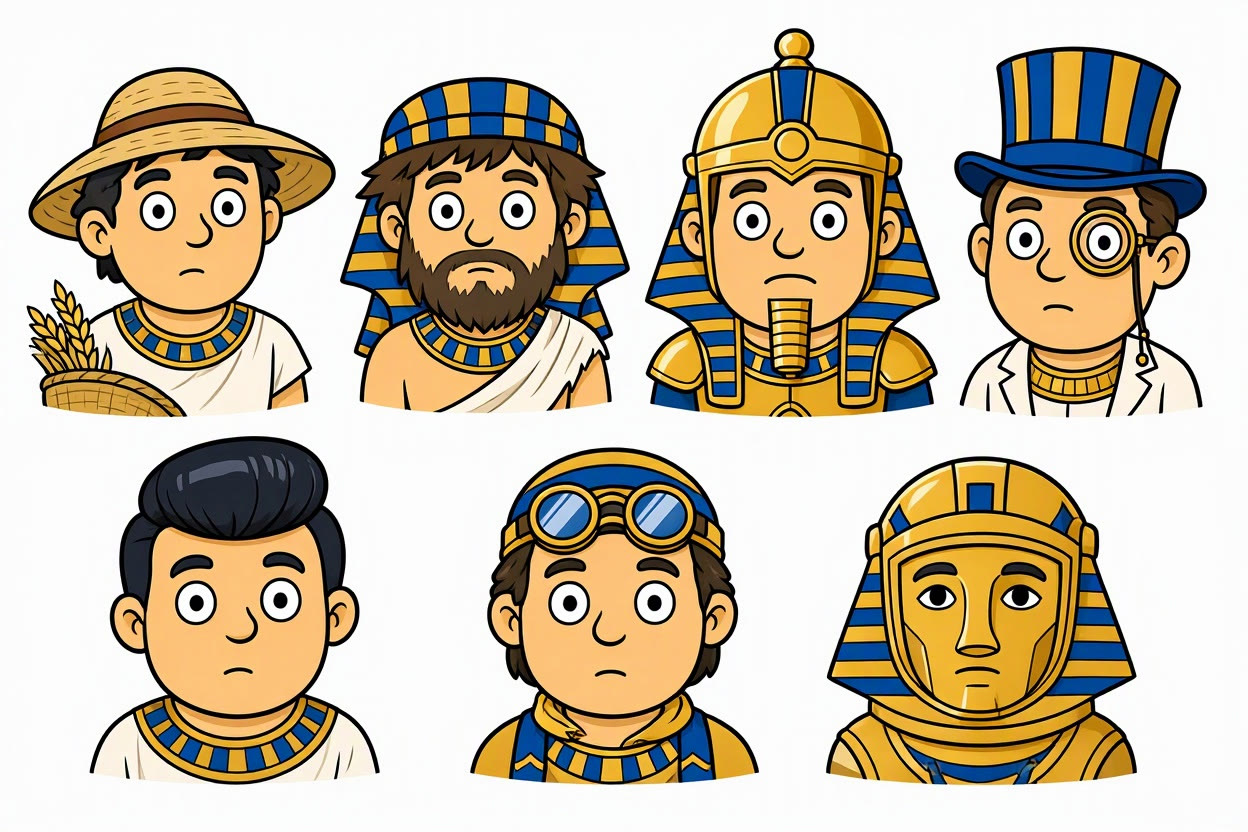
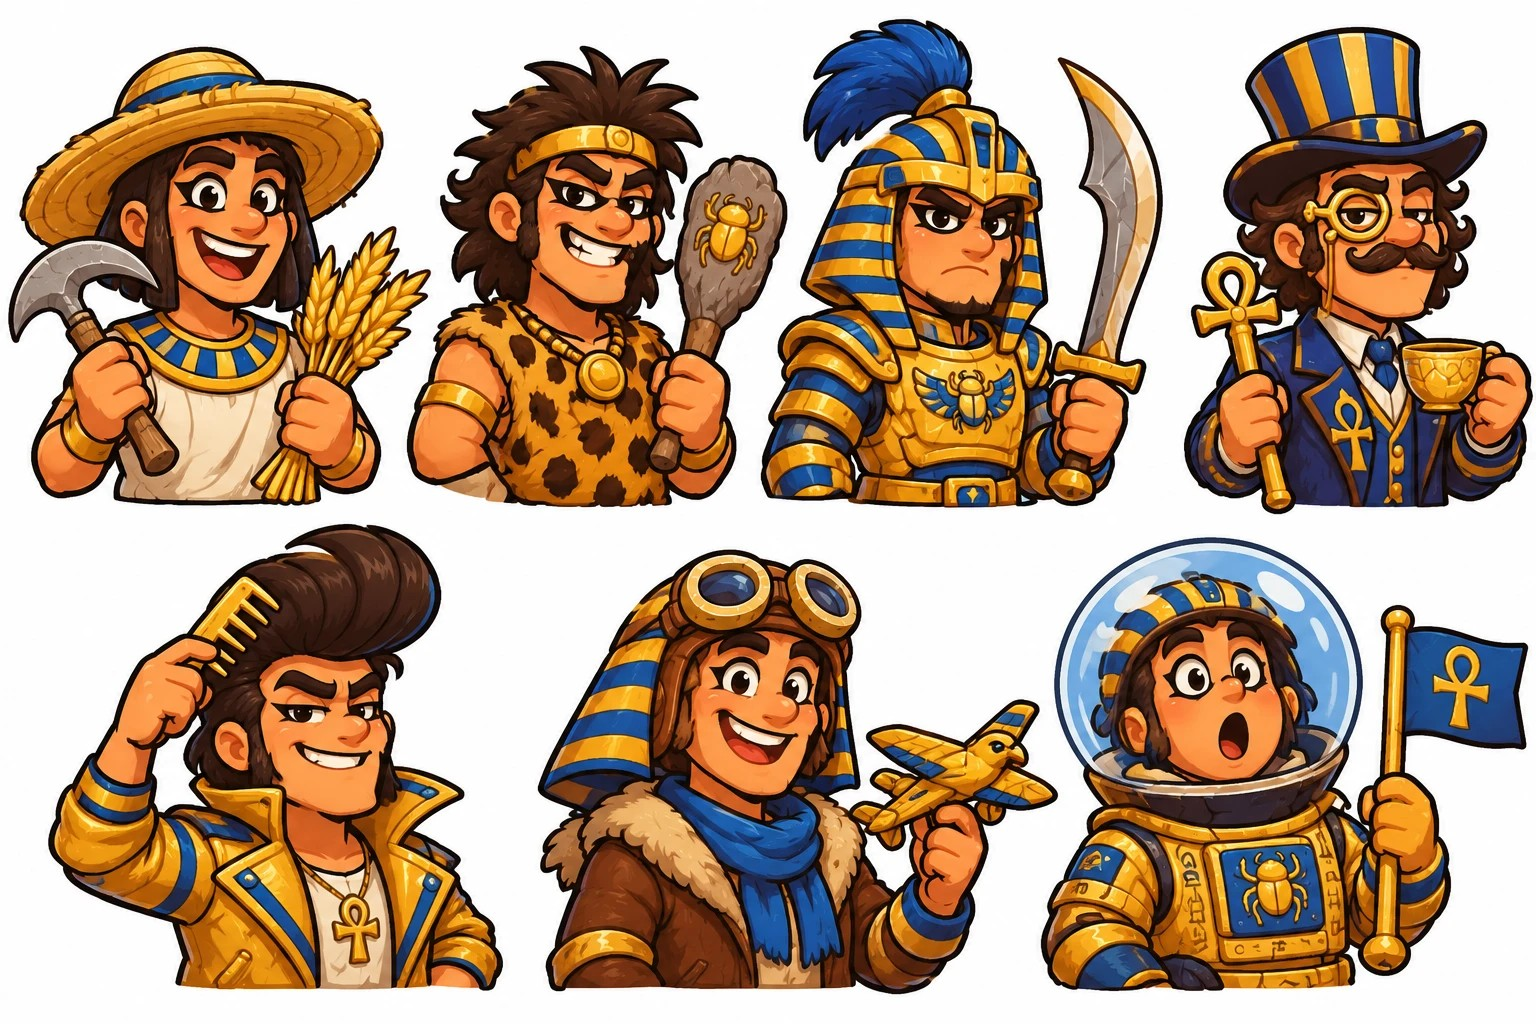
v0.1.209: new customer art for Stone, Egyptian, Medieval, Victorian, 1950s and Old-School sheets
Adds art-prompts.md with the prompts used. Future sheet is unchanged.

diff --git a/src/config.js b/src/config.js
@@ -3,7 +3,7 @@
 // Tiers are 0-based everywhere: 0 Wheel, 1 Cart, 2 Carriage, 3 Bicycle, 4 Car, 5 Plane, 6 Rocket.
 
 window.ERA_POP_CONFIG = {
-  version: '0.1.208',
+  version: '0.1.209',
 
   // ---- Capsule (world units; the capsule is scaled to fit the screen) ----
   capsule: {

diff --git a/art-prompts.md b/art-prompts.md
@@ -1,0 +1,135 @@
+# Era Pop: customer art prompts
+
+Seven prompts, one per sheet. Save each result over `assets/sheets/era0.jpg` ... `era6.jpg`. No code changes are needed.
+
+## How a player reads a customer
+
+Every customer is a **Look** (the era they come from) wearing a **Job** (what they are). For example, "Egyptian Knight" is a knight from ancient Egypt. To keep both obvious at card size:
+
+- **The Job is the costume and the prop**: the silhouette. The headgear and the prop must be the same in every era, so a knight is always a knight.
+- **The Look is the colors, materials, face and hair**. A Caveman Knight wears the knight's helmet and sword, but made of stone, fur and bone.
+
+### Job anchors (never change these)
+
+| Job | Headgear | Prop held near the face | Clothes |
+| --- | --- | --- | --- |
+| Caveman | wild shaggy hair, no hat | big stone club over the shoulder | fur pelt over one shoulder |
+| Farmer | wide woven straw hat | sickle and a bundle of wheat | simple work tunic |
+| Knight | helmet with raised visor and a plume | upright sword | chest armor |
+| Gentleman | tall top hat | cane and a teacup | jacket, cravat, monocle |
+| Greaser | tall slick pompadour, no hat | pocket comb | leather jacket with popped collar, T-shirt |
+| Pilot | leather flying cap, goggles pushed up | wooden propeller badge or toy plane | flight jacket with fur collar, long scarf |
+| Astronaut | round bubble helmet | small flag or ray-gun shaped scanner | puffy space suit with a chest control panel |
+
+### Look treatments (apply to everything the character wears)
+
+| Look | Palette | Materials and details | Face and hair |
+| --- | --- | --- | --- |
+| Caveman | stone grey, earthy brown | stone, fur, bone, leather lashed with rope | unibrow, stubble, messy hair |
+| Egyptian | gold, lapis blue | gold, linen, blue-and-gold stripes, scarab and ankh jewelry | kohl-lined eyes, bronze skin |
+| Medieval | steel grey, royal purple | chainmail, riveted plates, heraldic tabard with a crest | pageboy haircut |
+| Victorian | sepia brown, brass | tweed, check pattern, brass clockwork gears | waxed handlebar mustache, sideburns |
+| 1950s | hot pink, teal | polka dots, chrome trim, glossy diner style | slicked hair, big grin |
+| Old-School (1920s aviation) | brown leather, olive green | stitched leather, canvas, brass rivets | windswept hair, ruddy cheeks |
+| Future | white, navy, glowing cyan | glossy panels, neon circuit lines, holographic visor | sleek hair, cyan eye glints |
+
+## Style block (start every prompt with this)
+
+```
+A character sheet of 7 cartoon customer portraits for a casual mobile game. Bold, chunky cartoon style with thick dark outlines, flat bright colors and simple cel shading, like a polished mobile game. Each character is shown from the chest up, facing the viewer, with a big expressive face and a different emotion (happy, smug, grumpy, excited, nervous, proud, surprised). Each character holds their prop up near their face so it is visible at a small size. The headgear and prop must be large and easy to read. Pure white background, no ground, no shadows on the background, no text, no labels, no frames. Arrange exactly 7 characters in two rows: 4 in the top row and 3 in the bottom row, evenly spaced with clear white gaps so no two characters touch or overlap. Every character has a thick dark outline all around it. Characters, in reading order:
+```
+
+Then add that sheet's list below.
+
+---
+
+## era0.jpg: Caveman look (stone grey, brown fur, bone)
+
+```
+1. Caveman: a classic caveman with a shaggy fur pelt, wild hair, unibrow and a big stone club over his shoulder.
+2. Caveman Farmer: a caveman wearing a wide straw hat woven from twigs, holding a stone sickle and a bundle of wheat, wearing a fur tunic.
+3. Caveman Knight: a caveman wearing a knight's helmet carved from stone with a plume of feathers, chest armor made of stone slabs tied with rope, holding an upright stone sword.
+4. Caveman Gentleman: a caveman wearing a tall top hat made of fur, a monocle made from a ring of bone, holding a bone cane and a stone teacup.
+5. Caveman Greaser: a caveman with a huge slick pompadour, a leather jacket made from fur hide with a popped collar, combing his hair with a fish-bone comb.
+6. Caveman Pilot: a caveman wearing a leather flying cap with goggles made of two stone rings, a fur scarf, holding a toy plane made of sticks and leaves.
+7. Caveman Astronaut: a caveman inside a round bubble helmet, wearing a puffy space suit patched with fur, a stone control panel on his chest, holding a bone flag.
+```
+
+## era1.jpg: Egyptian look (gold, lapis blue, kohl eyes)
+
+```
+1. Ancient Egyptian Farmer: an ancient Egyptian farmer with a wide straw hat, a white linen tunic with a blue-and-gold collar, kohl-lined eyes, holding a sickle and a bundle of wheat.
+2. Egyptian Caveman: a caveman in an Egyptian style, with a leopard pelt trimmed with gold, wild hair with a gold headband, kohl-lined eyes, holding a stone club with a gold scarab on it.
+3. Egyptian Knight: a knight in gold armor with blue stripes, a helmet shaped like a pharaoh headdress with a plume, kohl-lined eyes, holding an upright curved khopesh sword.
+4. Egyptian Gentleman: a gentleman in a tall top hat striped blue and gold, a monocle shaped like the Eye of Horus, holding an ankh-topped cane and a gold teacup.
+5. Egyptian Greaser: a greaser with a slick pompadour, a gold leather jacket with blue stripes and a popped collar, kohl-lined eyes, combing his hair with a gold comb.
+6. Egyptian Pilot: a pilot with a leather flying cap wrapped in a striped blue-and-gold headcloth, goggles pushed up, holding a toy plane shaped like a golden falcon.
+7. Egyptian Astronaut: an astronaut with a round bubble helmet, a gold-and-lapis space suit with hieroglyph patterns, a scarab control panel on the chest, holding a small flag with an ankh.
+```
+
+## era2.jpg: Medieval look (steel, royal purple, heraldry)
+
+```
+1. Medieval Knight: a classic medieval knight in steel armor with a purple heraldic tabard, a helmet with raised visor and a purple plume, holding an upright sword.
+2. Medieval Caveman: a caveman with a fur pelt over a chainmail shirt, a purple heraldic crest stitched on the fur, holding a stone club banded with iron.
+3. Medieval Farmer: a medieval peasant farmer with a wide straw hat, a purple tunic with a crest, holding a sickle and a bundle of wheat.
+4. Medieval Gentleman: a gentleman in a tall top hat made of riveted steel, a monocle, a purple velvet jacket with a crest, holding a cane shaped like a lance and a pewter teacup.
+5. Medieval Greaser: a greaser with a slick pompadour, a leather jacket covered in chainmail and steel studs with a purple crest on the back, combing his hair.
+6. Medieval Pilot: a pilot wearing a steel helmet shaped like a flying cap with goggles pushed up, a purple tabard over the flight jacket, holding a toy plane with a heraldic shield on its wing.
+7. Medieval Astronaut: an astronaut with a round bubble helmet over a knight's helmet, a space suit of riveted steel plates with a purple crest on the chest panel, holding a small heraldic flag.
+```
+
+## era3.jpg: Victorian look (sepia, tweed, brass clockwork)
+
+```
+1. Victorian Gentleman: a classic Victorian gentleman in a tall top hat, a monocle, a waxed handlebar mustache, a brown tweed jacket and cravat, holding a cane and a teacup.
+2. Victorian Caveman: a caveman with a fur pelt worn like a tweed waistcoat, a waxed handlebar mustache, a pocket watch chain, holding a stone club with a brass handle.
+3. Victorian Farmer: a Victorian farmer with a wide straw hat, a check shirt and tweed waistcoat, mutton-chop sideburns, holding a sickle and a bundle of wheat.
+4. Victorian Knight: a knight in brass armor with clockwork gears, a brass helmet with raised visor and a plume, a handlebar mustache, holding an upright sword.
+5. Victorian Greaser: a greaser with a slick pompadour, a brown tweed jacket cut like a leather jacket with a popped collar, a handlebar mustache, combing his hair with a silver comb.
+6. Victorian Pilot: a pilot with a leather flying cap and big brass goggles, a tweed flight jacket, a handlebar mustache, holding a toy hot-air balloon with a propeller.
+7. Victorian Astronaut: an astronaut with a round brass diving-style helmet with a glass window, a brass space suit with clockwork gears on the chest panel, a handlebar mustache inside, holding a small Union flag.
+```
+
+## era4.jpg: 1950s look (hot pink, teal, polka dots, chrome)
+
+```
+1. 1950s Greaser: a classic 1950s greaser with a tall slick pompadour, a black leather jacket with a popped collar and a white T-shirt, combing his hair with a pocket comb.
+2. 1950s Caveman: a caveman with a fur pelt dyed hot pink with teal polka dots, a slick pompadour, holding a stone club with chrome trim.
+3. 1950s Farmer: a 1950s farmer with a wide straw hat with a teal band, a pink check shirt and denim overalls, holding a sickle and a bundle of wheat.
+4. 1950s Knight: a knight in shiny chrome armor with pink flame decals, a helmet with raised visor and a teal plume, holding an upright sword.
+5. 1950s Gentleman: a gentleman in a tall hot-pink top hat with a teal band, a monocle, a polka-dot bow tie, holding a cane and a milkshake glass instead of tea.
+6. 1950s Pilot: a pilot with a leather flying cap and chrome goggles, a teal flight jacket with pink flames, holding a toy jet plane with tail fins.
+7. 1950s Astronaut: a retro 1950s astronaut with a round bubble helmet with an antenna, a teal space suit with pink chrome fins and a chrome chest panel, holding a ray gun.
+```
+
+## era5.jpg: Old-School look (1920s aviation: brown leather, olive canvas, stitching)
+
+```
+1. Old-School Pilot: a classic 1920s pilot with a brown leather flying cap, goggles pushed up, a long white scarf, a flight jacket with a fur collar, holding a toy biplane.
+2. Old-School Caveman: a caveman with a fur pelt stitched like a leather flight jacket, aviator goggles on his forehead, holding a stone club tied with a leather strap.
+3. Old-School Farmer: a farmer with a wide straw hat, aviator goggles around the neck, an olive canvas work shirt, holding a sickle and a bundle of wheat.
+4. Old-School Knight: a knight in stitched brown leather armor with brass rivets, a helmet with raised visor shaped like a flying cap and a plume, holding an upright sword.
+5. Old-School Gentleman: a gentleman in a tall brown leather top hat with goggles strapped around it, a monocle, a long scarf, holding a cane and a tin camping mug.
+6. Old-School Greaser: a greaser with a slick pompadour, a brown leather flight jacket with a fur collar and patches, goggles around the neck, combing his hair.
+7. Old-School Astronaut: an astronaut with a round bubble helmet, an olive canvas space suit with stitching and brass rivets, a leather scarf, a dial gauge chest panel, holding a small flag.
+```
+
+## era6.jpg: Future look (white, navy, glowing cyan circuits)
+
+```
+1. Future Astronaut: a classic futuristic astronaut with a sleek round bubble helmet, a white and navy space suit with glowing cyan circuit lines, a glowing chest control panel, holding a small holographic flag.
+2. Future Caveman: a caveman with a fur pelt made of glowing cyan fiber, a robotic arm, wild hair with LED tips, holding a club made of glowing crystal.
+3. Future Farmer: a futuristic farmer with a wide straw hat made of glowing cyan wire, a white jumpsuit with navy panels, holding a laser sickle and a bundle of glowing wheat.
+4. Future Knight: a knight in sleek white armor with glowing cyan circuit lines, a helmet with a holographic visor and a light plume, holding an upright glowing light sword.
+5. Future Gentleman: a gentleman in a tall glossy navy top hat with glowing cyan band, a holographic monocle, holding a cane with a glowing tip and a floating teacup.
+6. Future Greaser: a greaser with a tall pompadour glowing at the tips, a glossy navy jacket with glowing cyan trim and a popped collar, combing his hair with a laser comb.
+7. Future Pilot: a pilot with a sleek white flying cap and a cyan holographic visor pushed up, a navy flight jacket with glowing trim, a light scarf, holding a toy hover-jet.
+```
+
+## Tips
+
+- Generate at a wide 3:2 size (about 1500 x 1000 or bigger). Save as JPG.
+- Keep the background pure white. The game removes near-white pixels that touch the background, so every character needs its dark outline.
+- Check the order before saving: the era's original first, then the six hybrids in job order (Caveman, Farmer, Knight, Gentleman, Greaser, Pilot, Astronaut, skipping the sheet's own job).
+- If a figure comes out touching its neighbor, regenerate. The slicer needs a white gap between all 7.
